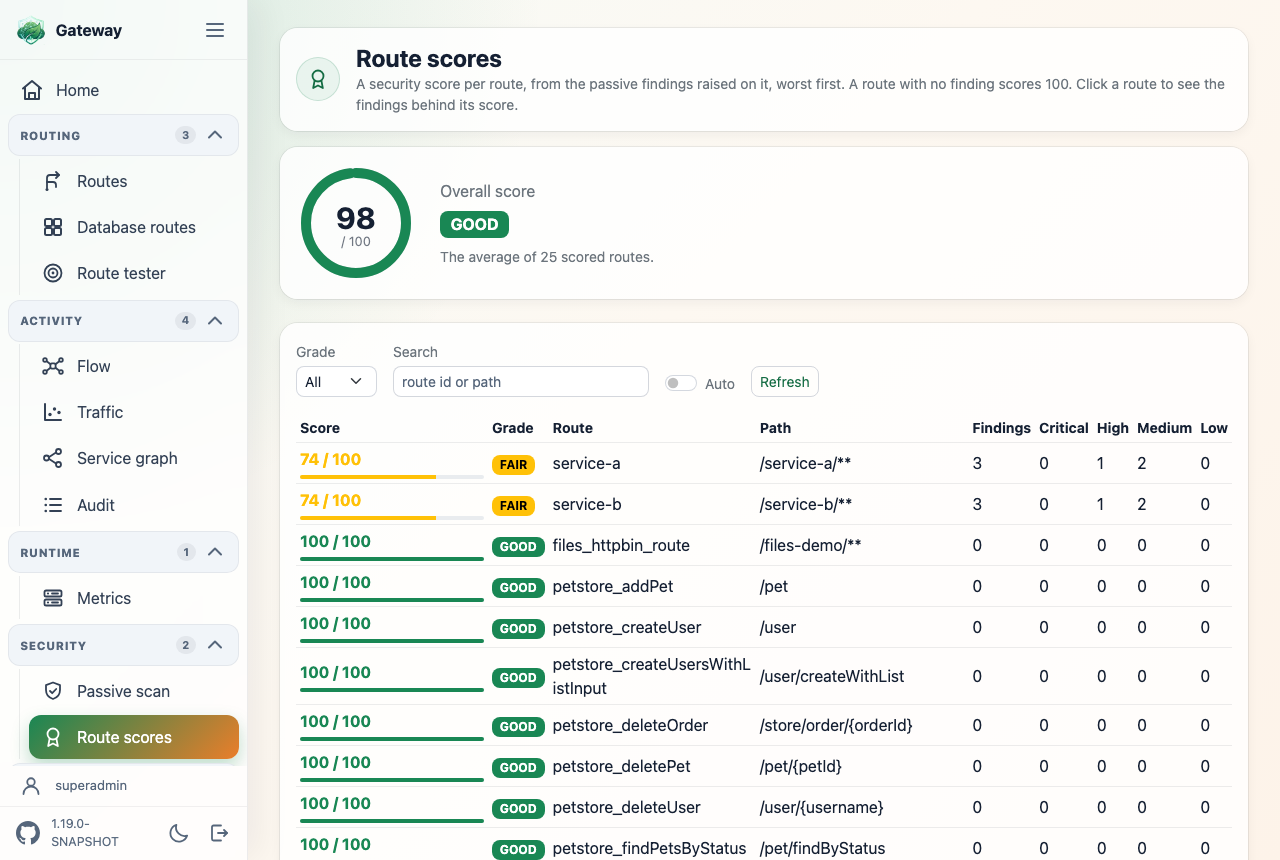
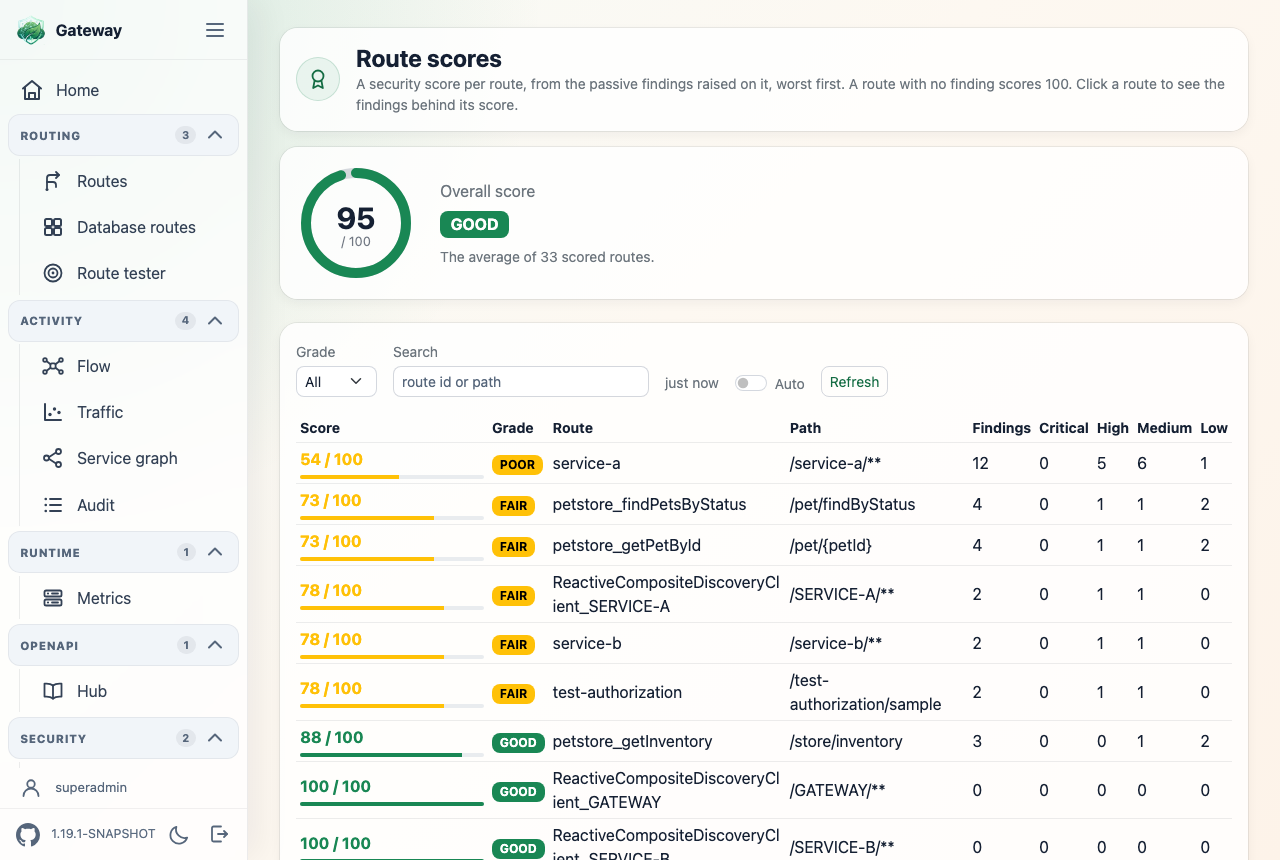
feat(ui): poll the service graph, and say how old every polled view is
The service graph gains the Auto switch and Live badge of the other views, polling
every 5 seconds. With Freeze layout on, which is the default, a node already drawn is
pinned where it is and only a new one is laid out, so the picture does not move while it
is read. The position capture is also guarded against the 'finished' event the initial
resize fires before anything was drawn.

The age label beside Auto ("just now", "9s ago") moves into the shell: a view marks its
label with data-gw-age and reports each successful read, and the shell ticks every label
on its own, so a dead poll shows. Traffic, Audit, Passive scan and Route scores get the
label; Flow and Instances drop their own copies of it.

diff --git a/spring-cloud-gateway-ui/src/main/resources/static/js/gateway-service-graph.js b/spring-cloud-gateway-ui/src/main/resources/static/js/gateway-service-graph.js
@@ -1,8 +1,9 @@
 /*
  * Service graph view. The picture is the graph the active source reported: nodes are the
  * endpoints, edges the calls between them. Filtering narrows what is drawn without asking
- * the gateway again — the payload is small, and a graph that redraws while it is being
- * read is unreadable, which is also why nothing here polls.
+ * the gateway again — the payload is small. A poll redraws the picture, and a graph that
+ * reshuffles while it is being read is unreadable: with the layout frozen, which is the
+ * default, a node already drawn is pinned where it is and only a new one is laid out.
  */
 (function () {
 	var chartEl = document.getElementById('gg-chart');
@@ -26,6 +27,8 @@
 
 	var IDLE_COLOR = '#7f8c9b';
 
+	var POLL_MS = 5000;
+
 	var dataUrl = chartEl.getAttribute('data-url') || '/ui/service-graph/data';
 	var chart = echarts.init(chartEl, window.gatewayUi.theme() === 'dark' ? 'dark' : null);
 	var nodes = [];
@@ -35,6 +38,7 @@
 	var positions = {};
 	var sortKey = 'calls';
 	var sortDir = -1;
+	var timer = null;
 
 	function sel(id) {
 		return document.getElementById(id);
@@ -251,7 +255,10 @@
 	 * after the layout settles rather than on every frame.
 	 */
 	function rememberPositions() {
-		var series = chart.getModel && chart.getModel().getSeriesByIndex(0);
+		// 'finished' also fires for the resize the observer below reports as soon as it
+		// watches the box, before anything was drawn: there is then no model to read.
+		var model = chart.getModel && chart.getModel();
+		var series = model && model.getSeriesByIndex(0);
 		if (!series || !series.getData) {
 			return;
 		}
@@ -368,13 +375,26 @@
 					coverage.textContent = (json && json.coverage) ? json.coverage : '';
 				}
 				renderFocusOptions();
+				window.gatewayUi.read('gg-age');
 				render();
 			})
 			.catch(function () {
+				// The age is left where it was: a failed poll makes the picture on screen
+				// older, it does not make it younger.
 				nodes = [];
 				edges = [];
 				render();
 			});
+	}
+
+	function schedule() {
+		if (timer) {
+			window.clearInterval(timer);
+			timer = null;
+		}
+		if (sel('gg-auto').checked) {
+			timer = window.setInterval(load, POLL_MS);
+		}
 	}
 
 	// Clicking a node focuses it; clicking the focused one goes back to the whole graph.
@@ -401,6 +421,7 @@
 		}
 		render();
 	});
+	sel('gg-auto').addEventListener('change', schedule);
 	sel('gg-refresh').addEventListener('click', load);
 	Array.prototype.forEach.call(document.querySelectorAll('.gw-sortable'), function (th) {
 		th.addEventListener('click', function () {
@@ -440,9 +461,10 @@
 		});
 	}
 
-	['gg-focus', 'gg-search', 'gg-min-calls', 'gg-4xx', 'gg-5xx', 'gg-freeze'].forEach(function (id) {
+	['gg-focus', 'gg-search', 'gg-min-calls', 'gg-4xx', 'gg-5xx', 'gg-freeze', 'gg-auto'].forEach(function (id) {
 		window.gatewayUi.remember(sel(id));
 	});
 
 	load();
+	schedule();
 })();

diff --git a/spring-cloud-gateway-ui/src/main/resources/templates/dashboard/service-graph.html b/spring-cloud-gateway-ui/src/main/resources/templates/dashboard/service-graph.html
@@ -70,6 +70,14 @@
 								style="width: 7rem">
 					</div>
 					<div class="ms-auto d-flex align-items-center gap-3">
+						<span class="gw-live" data-gw-live="gg-auto" hidden><span class="gw-live-dot"></span>Live</span>
+						<!-- How long ago the figures were read, ticking on its own between two
+						     polls: a graph left open on a dead poll must not look live. -->
+						<span class="text-secondary small" id="gg-age" data-gw-age></span>
+						<div class="form-check form-switch mb-0">
+							<input class="form-check-input" type="checkbox" role="switch" id="gg-auto" checked>
+							<label class="form-check-label small" for="gg-auto">Auto</label>
+						</div>
 						<!-- One switch per class of error, rather than one "failing" covering both: a
 						     wave of 404 and a backend outage are read by different people. Neither on
 						     draws the whole graph; both on keep an edge that saw either. -->
@@ -101,8 +109,10 @@
 					5xx. A 4xx is counted, reported and filtered on, but never colours an arrow: a caller
 					asking for what it may not have says nothing about the health of the service that
 					refused it.
-					The graph is refreshed on demand, never on a timer, so a layout you are reading does
-					not move under you.
+					With <em>Auto</em> on the figures are read again every 5 seconds. With <em>Freeze
+					layout</em> on, a node already drawn stays where it is and only a new one finds its
+					place, so the picture does not move under you; off, every poll lays the whole graph
+					out again.
 					<br>
 					The gateway itself is not a node: it sits on every edge, which is what lets it count
 					them. A caller it could not name &mdash; no client claim in a token, no caller header

diff --git a/spring-cloud-gateway-ui/src/main/resources/static/js/gateway-instances.js b/spring-cloud-gateway-ui/src/main/resources/static/js/gateway-instances.js
@@ -23,7 +23,6 @@
 	}
 
 	var coverageEl = document.getElementById('gi-coverage');
-	var ageEl = document.getElementById('gi-age');
 	var emptyEl = document.getElementById('gi-empty');
 	var autoEl = document.getElementById('gi-auto');
 	var refreshEl = document.getElementById('gi-refresh');
@@ -48,7 +47,6 @@
 	var snapshot = null;
 
 	// When the payload on screen was read, for the age shown in the band.
-	var readAt = null;
 
 	function readExpanded() {
 		try {
@@ -404,28 +402,6 @@
 	}
 
 	/*
-	 * How old the figures on screen are. It ticks on its own rather than being written on
-	 * each refresh: what it is there to reveal is a poll that stopped answering, and a
-	 * label only written by a successful load would then stay reassuringly at "just now".
-	 */
-	function renderAge() {
-		if (readAt === null) {
-			ageEl.textContent = '';
-			return;
-		}
-		var seconds = Math.round((Date.now() - readAt) / 1000);
-		if (seconds < 5) {
-			ageEl.textContent = 'just now';
-			return;
-		}
-		if (seconds < 90) {
-			ageEl.textContent = seconds + 's ago';
-			return;
-		}
-		ageEl.textContent = Math.round(seconds / 60) + 'm ago';
-	}
-
-	/*
 	 * Folding is bound to the container rather than to the buttons: the table is replaced
 	 * wholesale on every refresh, and a listener put on a button would go with it.
 	 */
@@ -455,8 +431,7 @@
 			})
 			.then(function (payload) {
 				render(payload);
-				readAt = Date.now();
-				renderAge();
+				window.gatewayUi.read('gi-age');
 			})
 			.catch(function () {
 				// The age is left where it was: a failed poll makes the figures on screen
@@ -486,5 +461,4 @@
 	}
 	load();
 	schedule();
-	setInterval(renderAge, 1000);
 })();

diff --git a/spring-cloud-gateway-ui/src/main/resources/static/js/gateway-ui.js b/spring-cloud-gateway-ui/src/main/resources/static/js/gateway-ui.js
@@ -77,7 +77,43 @@ window.gatewayUi = (function () {
 		return document.documentElement.getAttribute('data-bs-theme') === 'dark' ? 'dark' : 'light';
 	}
 
-	return { remember: remember, theme: theme };
+	/*
+	 * How old the figures of a polling view are. The view marks its label with data-gw-age
+	 * and reports each successful read; the label then ticks on its own rather than being
+	 * written on each refresh, since what it is there to reveal is a poll that stopped
+	 * answering, and a label only written by a successful load would stay reassuringly at
+	 * "just now". A failed poll reports nothing: the figures on screen got older, not
+	 * younger.
+	 */
+	var readTimes = {};
+
+	function age(id) {
+		var seconds = Math.round((Date.now() - readTimes[id]) / 1000);
+		if (seconds < 5) {
+			return 'just now';
+		}
+		if (seconds < 90) {
+			return seconds + 's ago';
+		}
+		return Math.round(seconds / 60) + 'm ago';
+	}
+
+	function tick() {
+		Array.prototype.forEach.call(document.querySelectorAll('[data-gw-age]'), function (label) {
+			if (readTimes[label.id]) {
+				label.textContent = age(label.id);
+			}
+		});
+	}
+
+	function recordRead(id) {
+		readTimes[id] = Date.now();
+		tick();
+	}
+
+	setInterval(tick, 1000);
+
+	return { read: recordRead, remember: remember, theme: theme };
 })();
 
 (function () {

diff --git a/spring-cloud-gateway-ui/src/main/resources/static/js/gateway-service-flow.js b/spring-cloud-gateway-ui/src/main/resources/static/js/gateway-service-flow.js
@@ -884,7 +884,7 @@
 				sel('gf-coverage').textContent = (json && json.coverage) ? json.coverage : '';
 				diff();
 				readAt = Date.now();
-				renderAge();
+				window.gatewayUi.read('gf-age');
 				redraw();
 			})
 			.catch(function () {
@@ -892,14 +892,6 @@
 				// older, it does not make it younger.
 				sel('gf-coverage').textContent = 'Could not read the flow.';
 			});
-	}
-
-	function renderAge() {
-		if (!readAt) {
-			return;
-		}
-		var seconds = Math.round((Date.now() - readAt) / 1000);
-		sel('gf-age').textContent = (seconds < 5) ? 'just now' : seconds + 's ago';
 	}
 
 	function schedule() {
@@ -946,5 +938,4 @@
 
 	load();
 	schedule();
-	window.setInterval(renderAge, 1000);
 })();

diff --git a/spring-cloud-gateway-ui/src/main/resources/templates/dashboard/service-flow.html b/spring-cloud-gateway-ui/src/main/resources/templates/dashboard/service-flow.html
@@ -73,7 +73,7 @@
 						<span class="gw-live" data-gw-live="gf-auto" hidden><span class="gw-live-dot"></span>Live</span>
 						<!-- How long ago the figures were read, ticking on its own between two
 						     polls: a flow left open on a dead poll must not look live. -->
-						<span class="text-secondary small" id="gf-age"></span>
+						<span class="text-secondary small" id="gf-age" data-gw-age></span>
 						<div class="form-check form-switch mb-0">
 							<input class="form-check-input" type="checkbox" role="switch" id="gf-auto" checked>
 							<label class="form-check-label small" for="gf-auto">Auto</label>

diff --git a/spring-cloud-gateway-ui/src/main/resources/static/js/gateway-passive-scan-routes.js b/spring-cloud-gateway-ui/src/main/resources/static/js/gateway-passive-scan-routes.js
@@ -250,16 +250,19 @@
 			fetch(dataUrl, { headers: { Accept: 'application/json' } }).then(function (r) {
 				return r.json();
 			}).catch(function () {
-				return [];
+				return null;
 			}),
 			fetch(findingsUrl + '?limit=1000', { headers: { Accept: 'application/json' } }).then(function (r) {
 				return r.json();
 			}).catch(function () {
-				return [];
+				return null;
 			})
 		]).then(function (results) {
 			all = results[0] || [];
 			findingsByRoute = groupFindings(results[1] || []);
+			if (results[0] && results[1]) {
+				window.gatewayUi.read('psr-age');
+			}
 			render();
 		});
 	}

diff --git a/spring-cloud-gateway-ui/src/main/resources/templates/dashboard/instances.html b/spring-cloud-gateway-ui/src/main/resources/templates/dashboard/instances.html
@@ -18,7 +18,7 @@
 					<!-- How long ago the figures were read, ticking on its own between two
 					     refreshes: a view left open on a dead poll must not look live. -->
 					<span class="gw-live" data-gw-live="gi-auto" hidden><span class="gw-live-dot"></span>Live</span>
-					<span class="text-secondary small" id="gi-age"></span>
+					<span class="text-secondary small" id="gi-age" data-gw-age></span>
 					<div class="form-check form-switch mb-0">
 						<input class="form-check-input" type="checkbox" id="gi-auto" checked>
 						<label class="form-check-label small" for="gi-auto">Auto</label>

diff --git a/spring-cloud-gateway-ui/src/main/resources/templates/dashboard/audit.html b/spring-cloud-gateway-ui/src/main/resources/templates/dashboard/audit.html
@@ -26,6 +26,7 @@
 					</div>
 					<div class="ms-auto d-flex align-items-center gap-3">
 						<span class="gw-live" data-gw-live="ga-auto" hidden><span class="gw-live-dot"></span>Live</span>
+						<span class="text-secondary small" id="ga-age" data-gw-age></span>
 						<div class="form-check form-switch mb-0">
 							<input class="form-check-input" type="checkbox" role="switch" id="ga-auto" checked>
 							<label class="form-check-label small" for="ga-auto">Auto</label>

diff --git a/spring-cloud-gateway-ui/src/main/resources/templates/dashboard/metrics.html b/spring-cloud-gateway-ui/src/main/resources/templates/dashboard/metrics.html
@@ -104,6 +104,7 @@
 					</div>
 					<div class="ms-auto d-flex align-items-center gap-3">
 						<span class="gw-live" data-gw-live="gm-auto" hidden><span class="gw-live-dot"></span>Live</span>
+						<span class="text-secondary small" id="gm-age" data-gw-age></span>
 						<div class="form-check form-switch mb-0">
 							<input class="form-check-input" type="checkbox" role="switch" id="gm-auto">
 							<label class="form-check-label small" for="gm-auto">Auto</label>

diff --git a/spring-cloud-gateway-ui/src/main/resources/templates/dashboard/passive-scan-routes.html b/spring-cloud-gateway-ui/src/main/resources/templates/dashboard/passive-scan-routes.html
@@ -47,6 +47,7 @@
 					</div>
 					<span class="gw-live ms-auto pb-1" data-gw-live="psr-auto" hidden><span
 							class="gw-live-dot"></span>Live</span>
+					<span class="text-secondary small pb-1" id="psr-age" data-gw-age></span>
 					<div class="form-check form-switch">
 						<input class="form-check-input" type="checkbox" id="psr-auto" checked>
 						<label class="form-check-label small text-secondary" for="psr-auto">Auto</label>

diff --git a/spring-cloud-gateway-ui/src/main/resources/templates/dashboard/passive-scan.html b/spring-cloud-gateway-ui/src/main/resources/templates/dashboard/passive-scan.html
@@ -71,6 +71,7 @@
 							</ul>
 						</div>
 						<span class="gw-live" data-gw-live="ps-auto" hidden><span class="gw-live-dot"></span>Live</span>
+						<span class="text-secondary small" id="ps-age" data-gw-age></span>
 						<div class="form-check form-switch mb-0">
 							<input class="form-check-input" type="checkbox" role="switch" id="ps-auto" checked>
 							<label class="form-check-label small" for="ps-auto">Auto</label>
